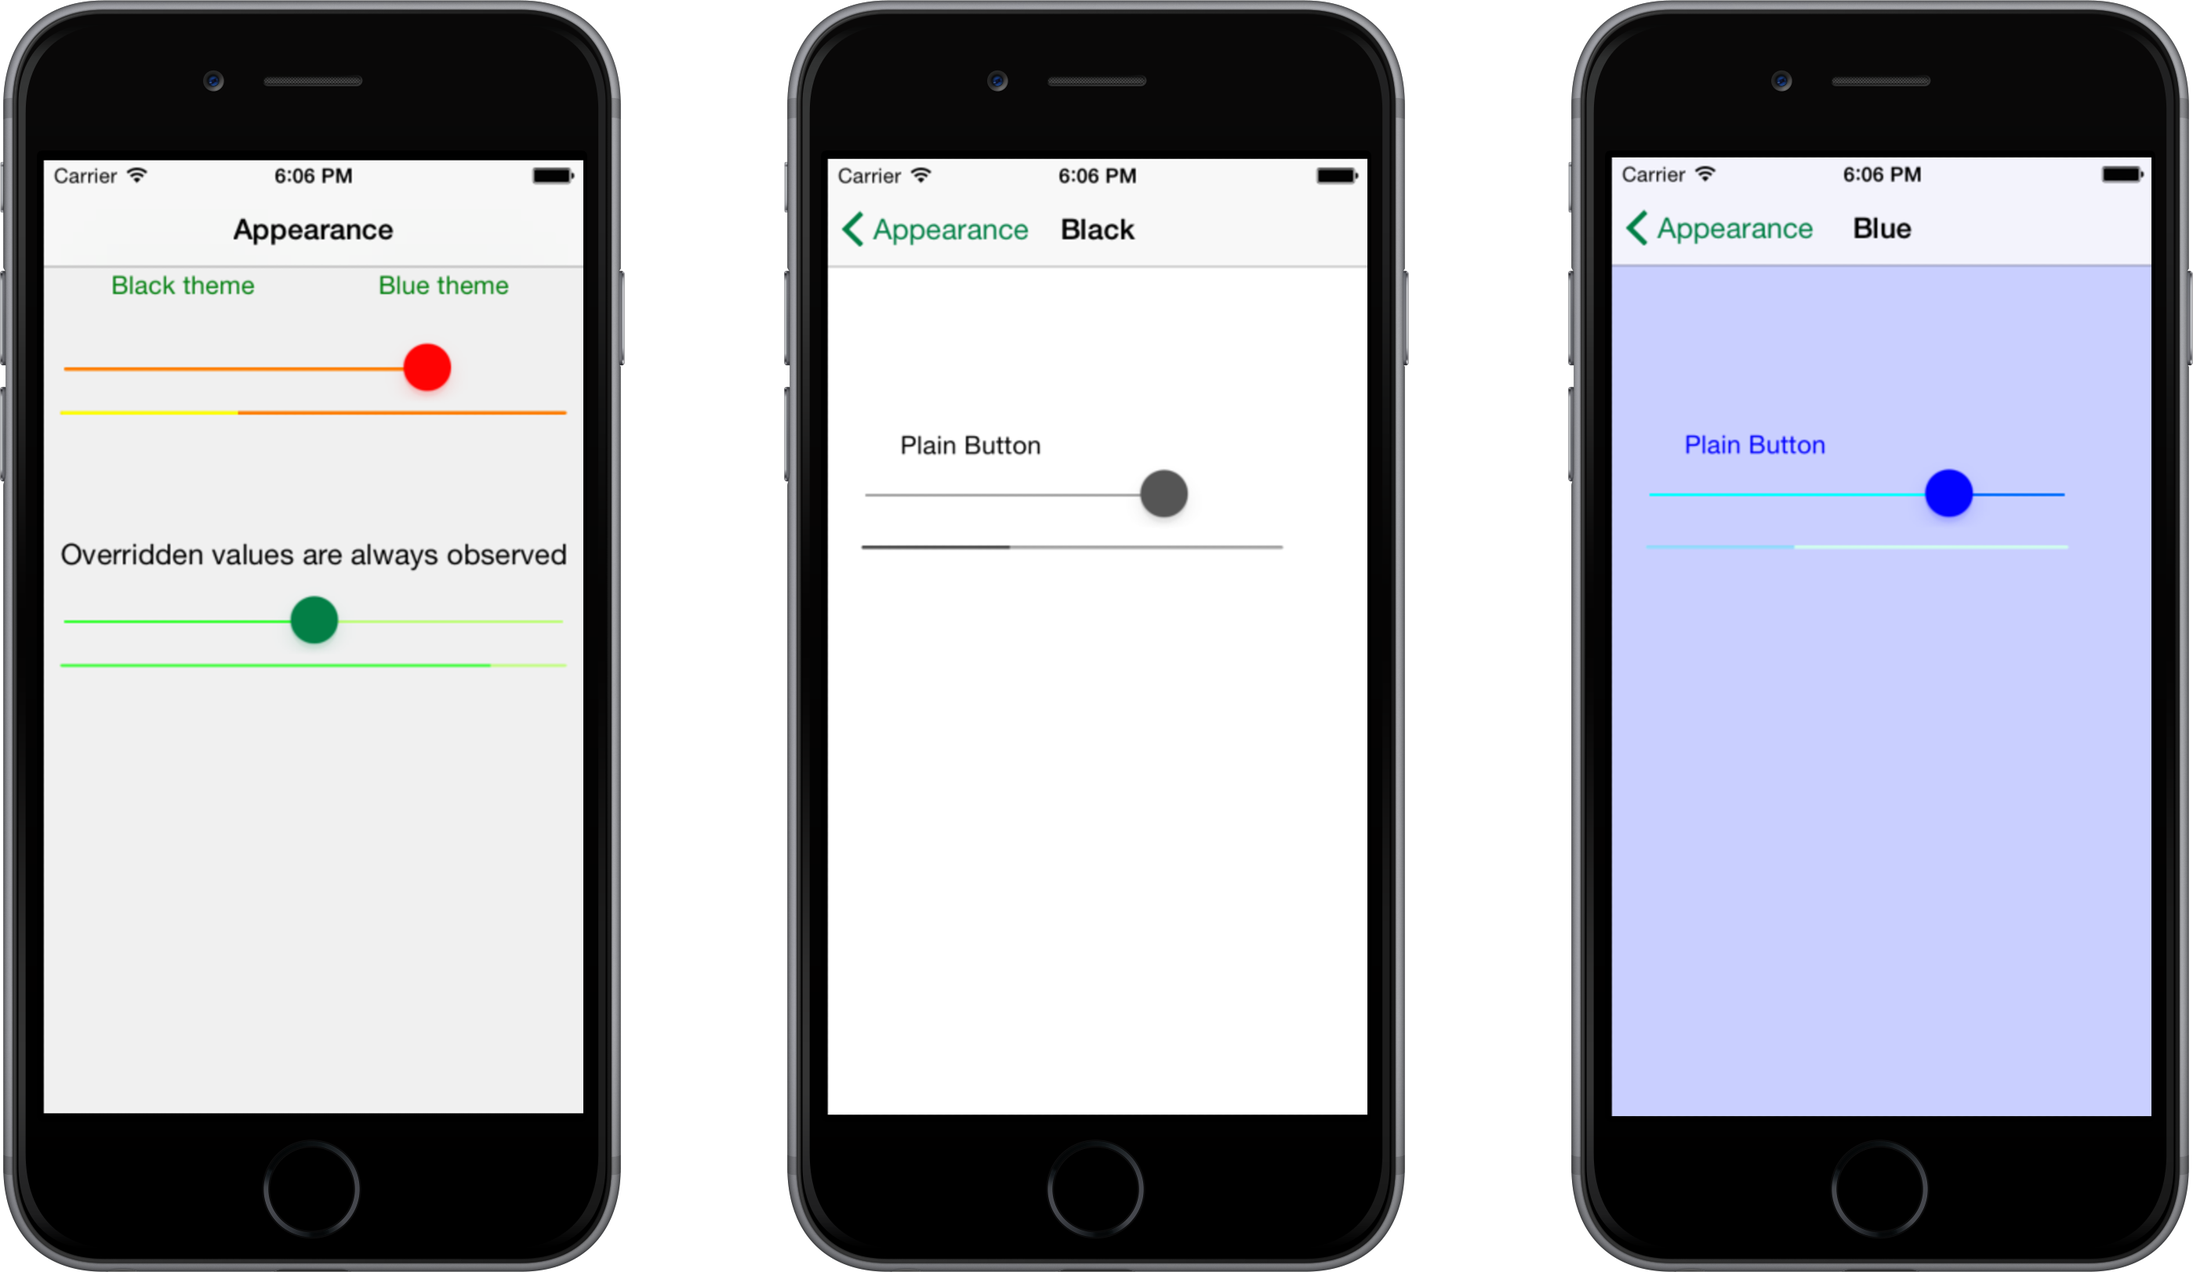
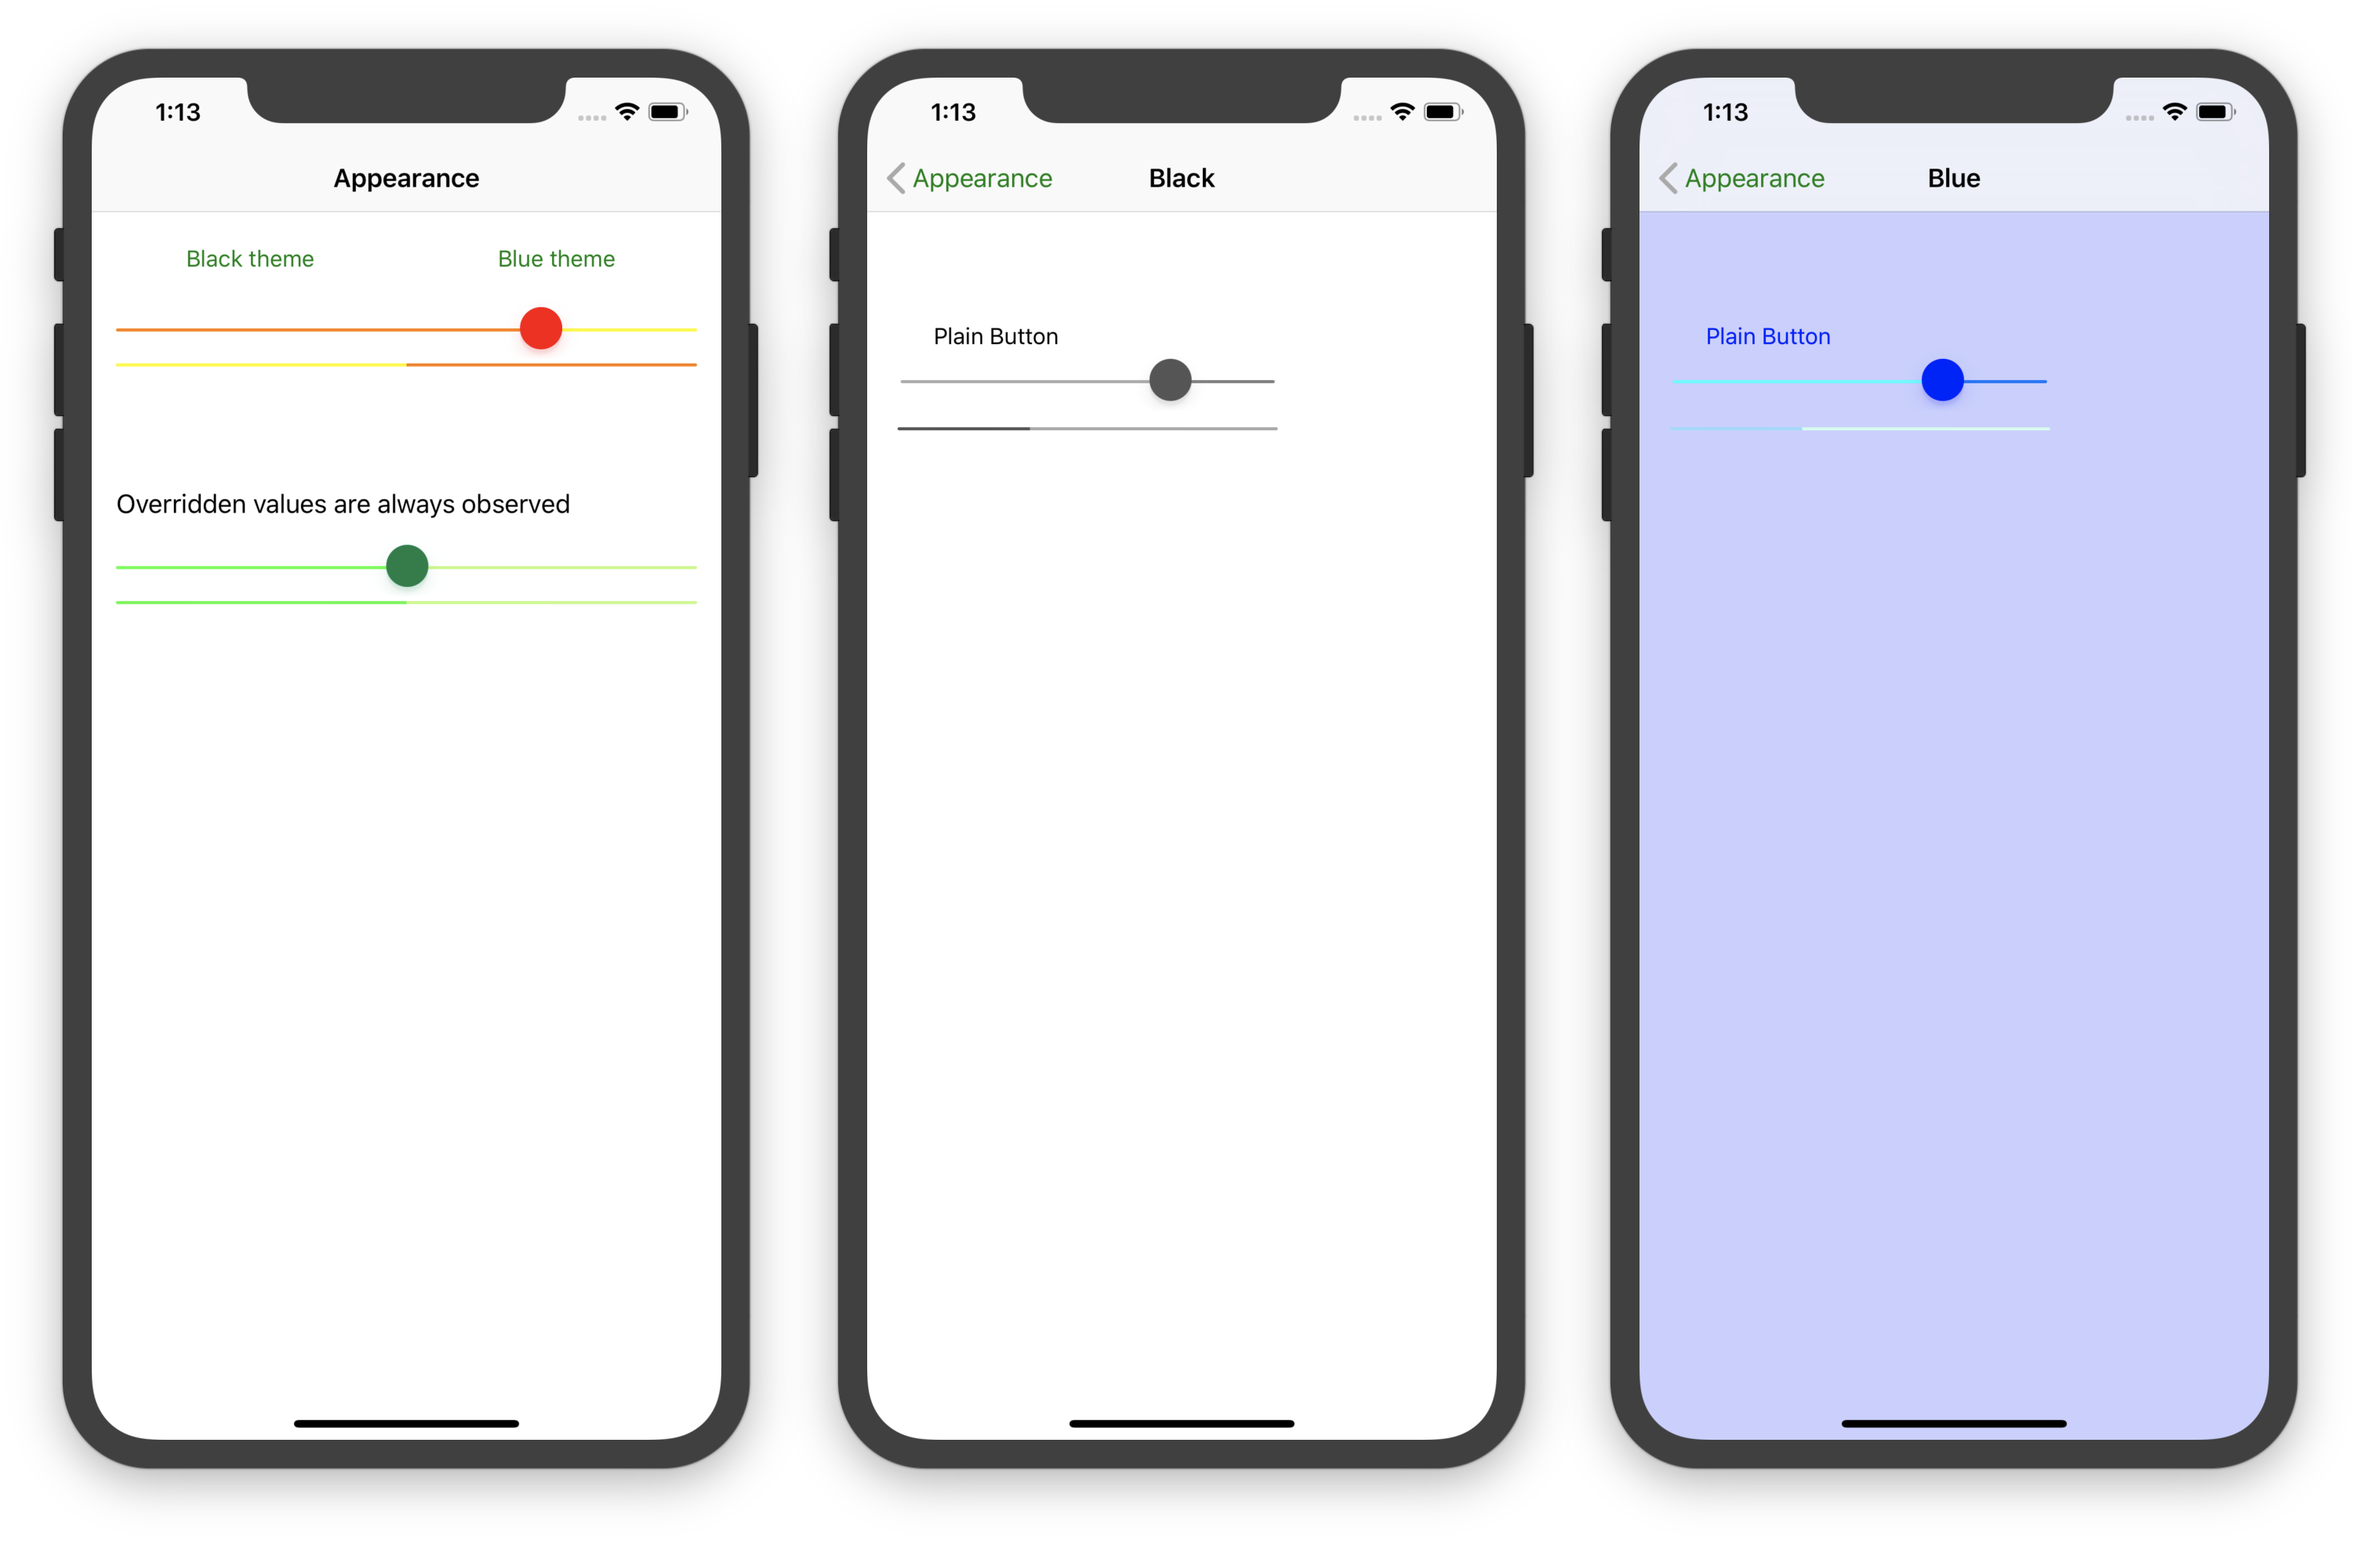
fix typo in app title
and update screenshots

diff --git a/Appearance/README.md b/Appearance/README.md
@@ -1,4 +1,4 @@
 Introduction to Appearance
 =====================
 
-This contains a sample demonstrating the use of the Appearance API. You can find more information on this in the [Introduction to Appearance API](https://docs.microsoft.com/en-us/xamarin/ios/user-interface/ios-ui/introduction-to-the-appearance-api/) guide
+This contains a sample demonstrating the use of the Appearance API. You can find more information on this in the [Introduction to Appearance API](https://docs.microsoft.com/xamarin/ios/user-interface/ios-ui/introduction-to-the-appearance-api/) guide.
